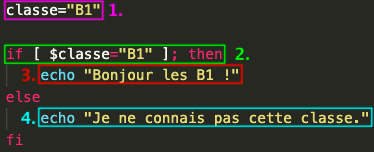
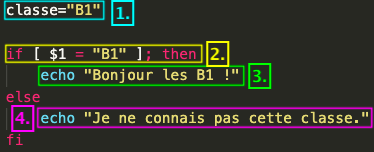
update

Changed region(s): [[0.0, 0.2632, 0.7353, 0.6053], [0.0294, 0.6842, 1.0, 0.8684], [0.0, 0.0, 0.3824, 0.1842]]

diff --git a/conditions.md b/conditions.md
@@ -26,4 +26,5 @@ Ce script permet d'imprimer une phrase en fonction du contenu de la variable **c
 > 2. SI ma variable **classe** est égale à **B1**; alors...
 > 3. J'imprime la phrase donnée
 > 4. SINON, j'imprime l'autre phrase.
+>> **ATTENTION !! Il faut bien mettre des espaces lors du test.**
 
